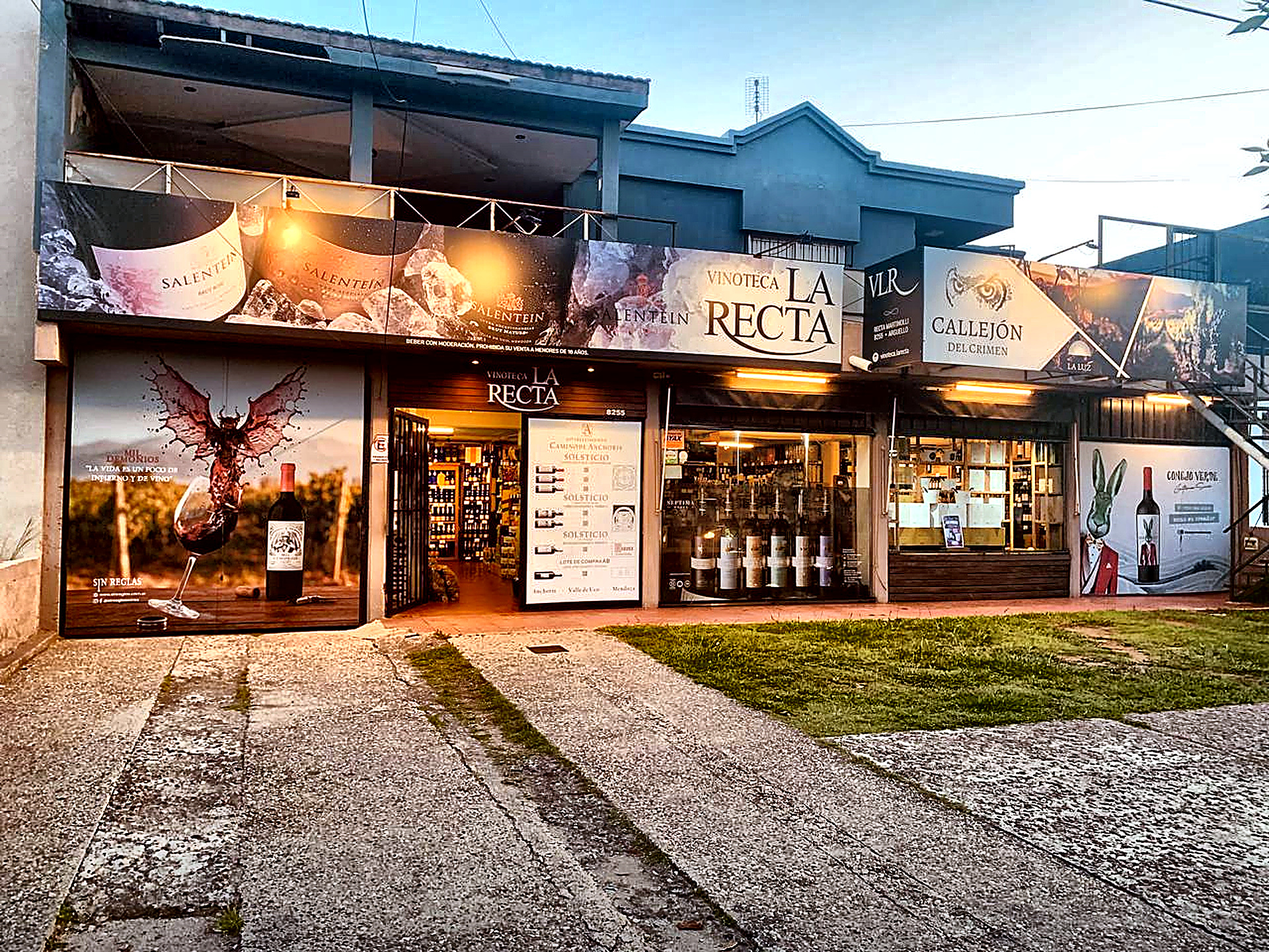
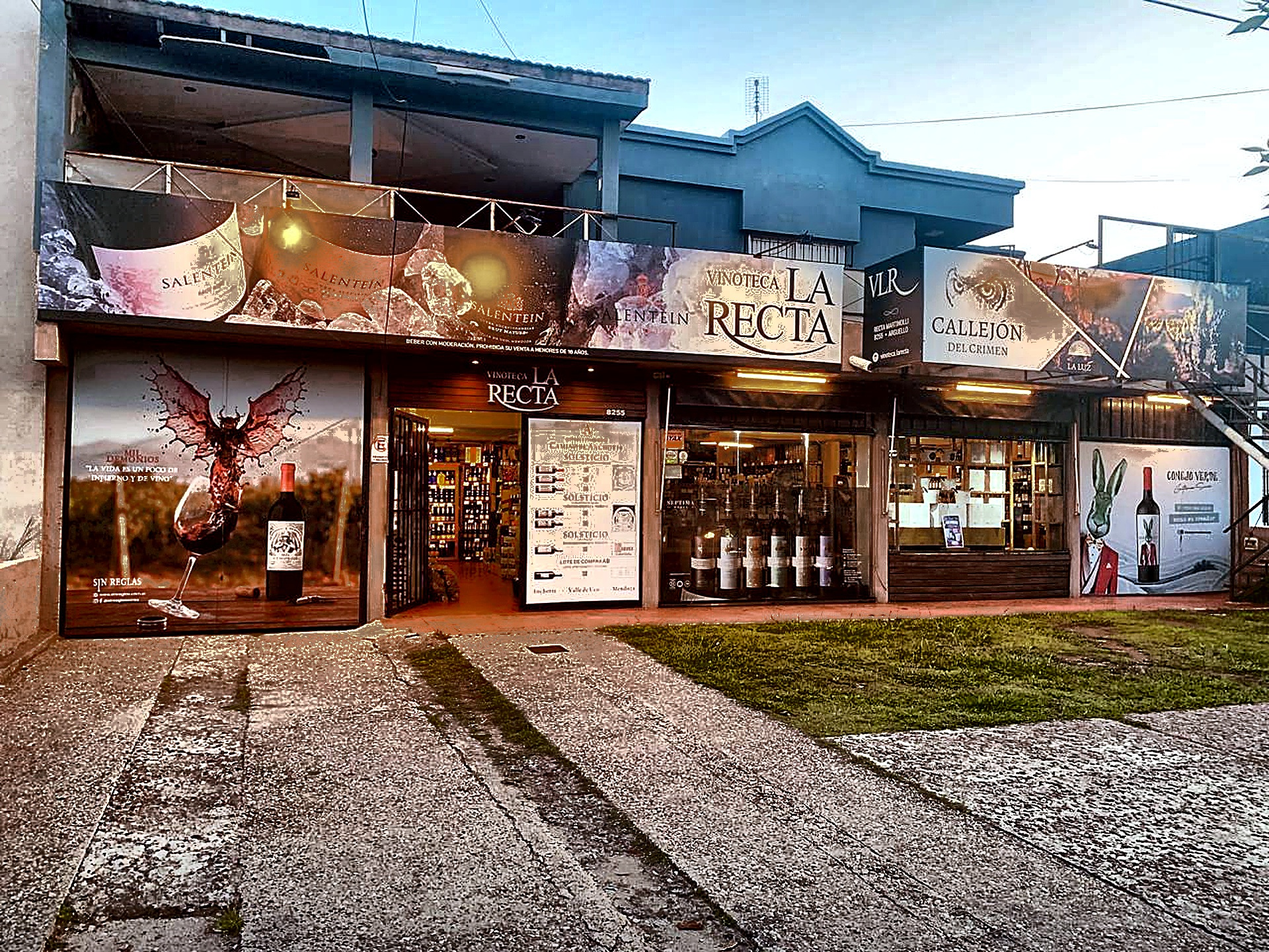
feat: oscurecer madera en fotos del hero, simplificar descripciones, eliminar precios tachados en promos y renombrar combo Don Nicanor

diff --git a/frontend/js/app.js b/frontend/js/app.js
@@ -619,7 +619,7 @@ function openProductModal(product) {
           </a>
         </div>
 
-        <h4 style="font-family: var(--font-brand); font-size: 0.82rem; color: var(--gold-primary); letter-spacing: 0.12em; text-transform: uppercase; margin-bottom: 0.4rem;">Descripción Enológica:</h4>
+        <h4 style="font-family: var(--font-brand); font-size: 0.82rem; color: var(--gold-primary); letter-spacing: 0.12em; text-transform: uppercase; margin-bottom: 0.4rem;">Descripción:</h4>
         <p style="font-size: 0.92rem; color: var(--text-muted); line-height: 1.65; margin-bottom: 1.5rem;">
           ${product.description || 'Etiqueta de jerarquía seleccionada rigurosamente por el equipo de Vinoteca La Recta. Conservada en cava para salvaguardar su bouquet y notas originales.'}
         </p>
@@ -1284,7 +1284,7 @@ function renderPromosGrid() {
     const images = (Array.isArray(promo.images) && promo.images.length > 0)
       ? promo.images
       : [promo.image];
-    const discountTag = promo.badge || (promo.discount ? `${promo.discount}% OFF` : 'PROMO EXCLUSIVA');
+    const discountTag = promo.badge || 'PROMO EXCLUSIVA';
 
     return `
       <article class="promo-card-item" data-id="${promo.id}" style="cursor: pointer;" title="Hacer clic para ver detalles y ficha técnica de ${promo.name}">
@@ -1332,13 +1332,12 @@ function renderPromosGrid() {
         </div>
 
         <div class="promo-body">
-          <span class="promo-category">${promo.bodega ? promo.bodega + ' • ' : ''}${promo.subcategory || 'PROMO EXCLUSIVA'}</span>
+          <span class="promo-category">${promo.subcategory && promo.subcategory !== 'Combos Degustación' ? (promo.bodega ? promo.bodega + ' • ' : '') + promo.subcategory : (promo.bodega || 'PROMO EXCLUSIVA')}</span>
           <h3 class="promo-title">${promo.name}</h3>
           
           <div class="promo-pricing">
             <div class="promo-price-main">
               <span class="promo-current-price">${formatCurrency(promo.price)}</span>
-              ${promo.originalPrice ? `<span class="promo-original-price">${formatCurrency(promo.originalPrice)}</span>` : ''}
             </div>
           </div>
 

diff --git a/frontend/js/productos.js b/frontend/js/productos.js
@@ -267,7 +267,7 @@ function openProductModal(product) {
         </div>
 
         <div class="modal-desc-block">
-          <h4>Descripción Enológica</h4>
+          <h4>Descripción</h4>
           <p>${product.description || 'Etiqueta de partida limitada seleccionada por Vinoteca La Recta. Conservada bajo estricto control higrométrico y de temperatura.'}</p>
         </div>
 
